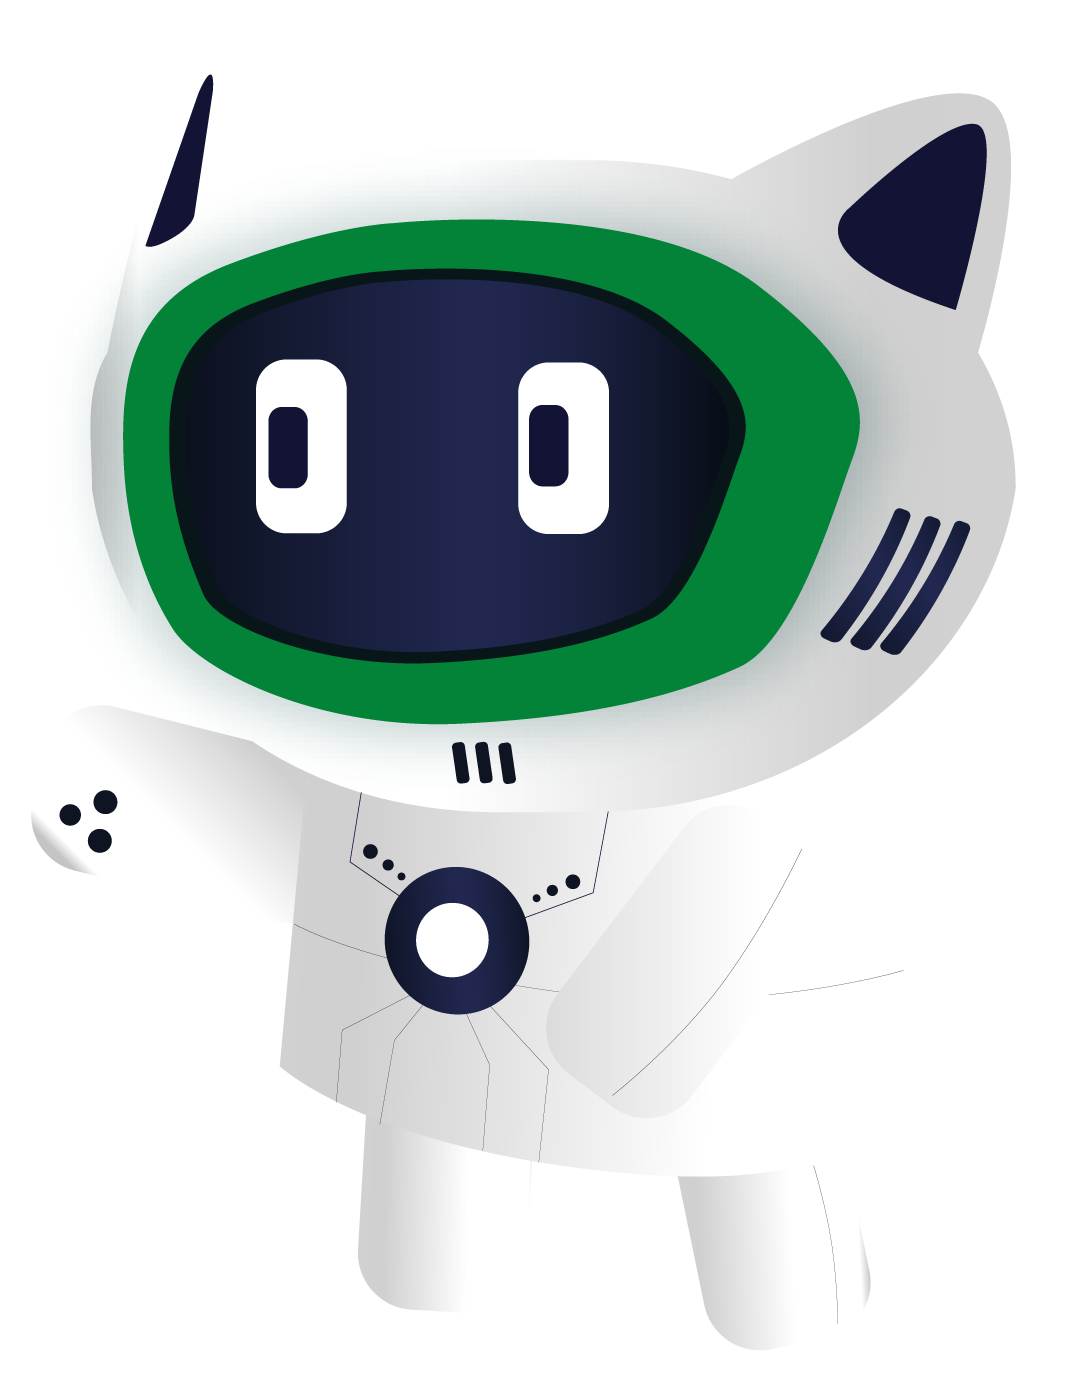
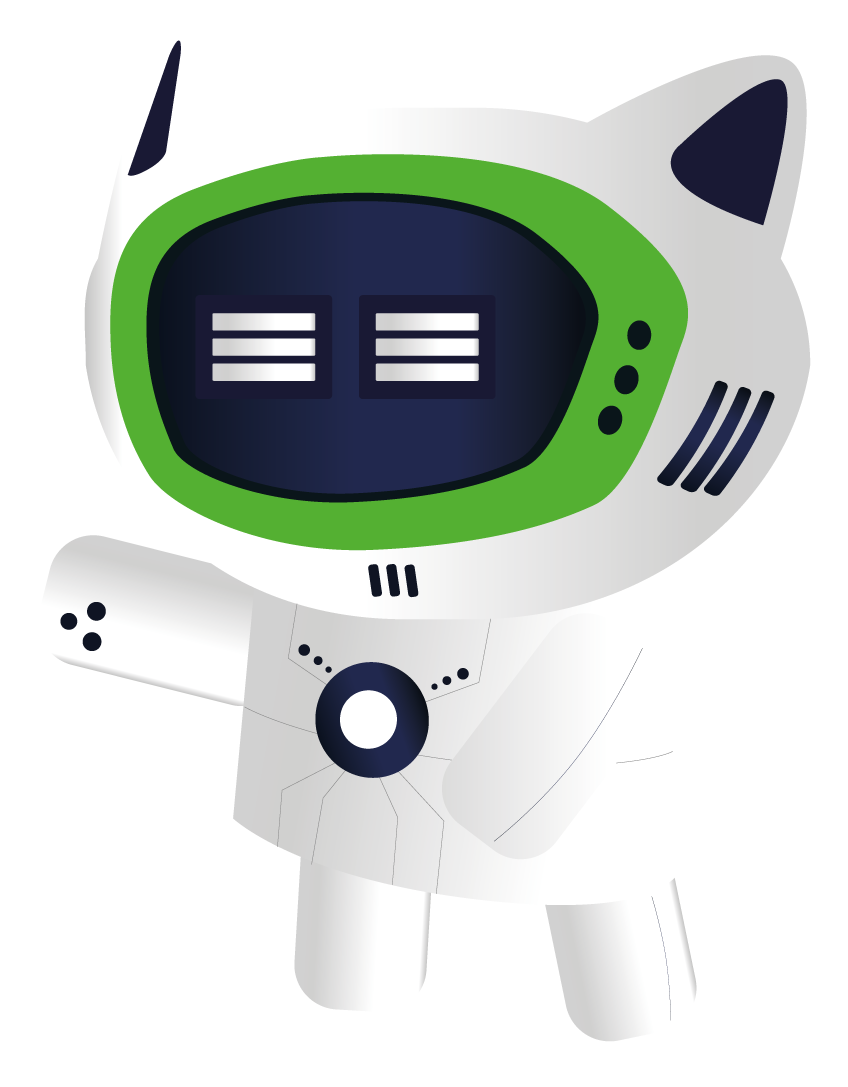
feat:ajustes seccion profesional

diff --git a/src/sections/Experience.jsx b/src/sections/Experience.jsx
@@ -13,7 +13,7 @@ function Experience() {
    
           <a
        
-            className="bg-[#] border border-white rounded-xl p-6 shadow-lg hover:border-green-400 hover:-translate-y-2 transition-all duration-300"
+            className="bg-[#001844b0] border border-[#01443b] rounded-xl p-6 shadow-lg hover:border-green-400 hover:-translate-y-2 transition-all duration-300"
           >
             <h3 className="text-2xl font-semibold text-green-500  mb-4">
               Instituto Humboldt
@@ -31,7 +31,7 @@ function Experience() {
           </a>
           <a
        
-            className="bg-[#] border border-white rounded-xl p-6 shadow-lg hover:border-green-400 hover:-translate-y-2 transition-all duration-300"
+            className="bg-[#001844b0] border border-[#01443b] rounded-xl p-6 shadow-lg hover:border-green-400 hover:-translate-y-2 transition-all duration-300"
           >
             <h3 className="text-2xl font-semibold text-green-500  mb-4">
               Universidad del Rosario
@@ -48,7 +48,7 @@ function Experience() {
           </a>
           <a
        
-            className="bg-[#] border border-white rounded-xl p-6 shadow-lg hover:border-green-400 hover:-translate-y-2 transition-all duration-300"
+            className="bg-[#001844b0] border border-[#01443b] rounded-xl p-6 shadow-lg hover:border-green-400 hover:-translate-y-2 transition-all duration-300"
           >
             <h3 className="text-2xl font-semibold text-green-500  mb-4">
               AuditBrain
@@ -65,7 +65,7 @@ function Experience() {
           </a>
           <a
        
-            className="bg-[#] border border-white rounded-xl p-6 shadow-lg hover:border-green-400 hover:-translate-y-2 transition-all duration-300"
+            className="bg-[#001844b0] border border-[#01443b] rounded-xl p-6 shadow-lg hover:border-green-400 hover:-translate-y-2 transition-all duration-300"
           >
             <h3 className="text-2xl font-semibold text-green-500  mb-4">
               Sainet Ingeniería
@@ -82,7 +82,7 @@ function Experience() {
           </a>
           <a
        
-            className="bg-[#] border border-white rounded-xl p-6 shadow-lg hover:border-green-400 hover:-translate-y-2 transition-all duration-300"
+            className="bg-[#001844b0] border border-[#01443b] rounded-xl p-6 shadow-lg hover:border-green-400 hover:-translate-y-2 transition-all duration-300"
           >
             <h3 className="text-2xl font-semibold text-green-500  mb-4">
               Novoclick.com
@@ -100,7 +100,7 @@ function Experience() {
           </a>
           <a
        
-            className="bg-[#] border border-white rounded-xl p-6 shadow-lg hover:border-green-400 hover:-translate-y-2 transition-all duration-300"
+            className="bg-[#001844b0] border border-[#01443b] rounded-xl p-6 shadow-lg hover:border-green-400 hover:-translate-y-2 transition-all duration-300"
           >
             <h3 className="text-2xl font-semibold text-green-500  mb-4">
               Daﬁti.com
@@ -116,7 +116,7 @@ function Experience() {
           </a>
           <a
        
-            className="bg-[#] border border-white rounded-xl p-6 shadow-lg hover:border-green-400 hover:-translate-y-2 transition-all duration-300"
+            className="bg-[#001844b0] border border-[#01443b] rounded-xl p-6 shadow-lg hover:border-green-400 hover:-translate-y-2 transition-all duration-300"
           >
             <h3 className="text-2xl font-semibold text-green-500  mb-4">
               Pac Gráﬁca Agencia publicitaria
@@ -132,7 +132,7 @@ function Experience() {
           </a>
           <a
        
-            className="bg-[#] border border-white rounded-xl p-6 shadow-lg hover:border-green-400 hover:-translate-y-2 transition-all duration-300"
+            className="bg-[#001844b0] border border-[#01443b] rounded-xl p-6 shadow-lg hover:border-green-400 hover:-translate-y-2 transition-all duration-300"
           >
             <h3 className="text-2xl font-semibold text-green-500  mb-4">
               Ideea Soluciones Ltda.
@@ -148,7 +148,7 @@ function Experience() {
           </a>
           <a
        
-            className="bg-[#] border border-white rounded-xl p-6 shadow-lg hover:border-green-400 hover:-translate-y-2 transition-all duration-300"
+            className="bg-[#001844b0] border border-[#01443b] rounded-xl p-6 shadow-lg hover:border-green-400 hover:-translate-y-2 transition-all duration-300"
           >
             <h3 className="text-2xl font-semibold text-green-500  mb-4">
               Calzado Caprino - Imacal Ltda
@@ -164,7 +164,7 @@ function Experience() {
           </a>
           <a
        
-            className="bg-[#] border border-white rounded-xl p-6 shadow-lg hover:border-green-400 hover:-translate-y-2 transition-all duration-300"
+            className="bg-[#001844b0] border border-[#01443b] rounded-xl p-6 shadow-lg hover:border-green-400 hover:-translate-y-2 transition-all duration-300"
           >
             <h3 className="text-2xl font-semibold text-green-500  mb-4">
               Directorio virtual publicitario s.a.s

diff --git a/src/sections/About.jsx b/src/sections/About.jsx
@@ -1,4 +1,4 @@
-import personaje from "../imagenes/personaje-bot.png";
+import personaje from "../imagenes/robot-efren.gif";
 
 function About() {
   return (
@@ -35,12 +35,12 @@ function About() {
 
       {/* Imagen */}
       <figure className="flex justify-center order-1 lg:order-2">
-        <img
-          src={personaje}
-          alt="Ilustración representando a Efren Barragán"
-          className="w-full max-w-md animate-float"
-          loading="lazy"
-        />
+   <img
+  src={personaje}
+  alt="Ilustración representando a Efren Barragán"
+  className="w-full max-w-xl animate-float object-contain"
+  loading="lazy"
+/>
       </figure>
 
     </article>
